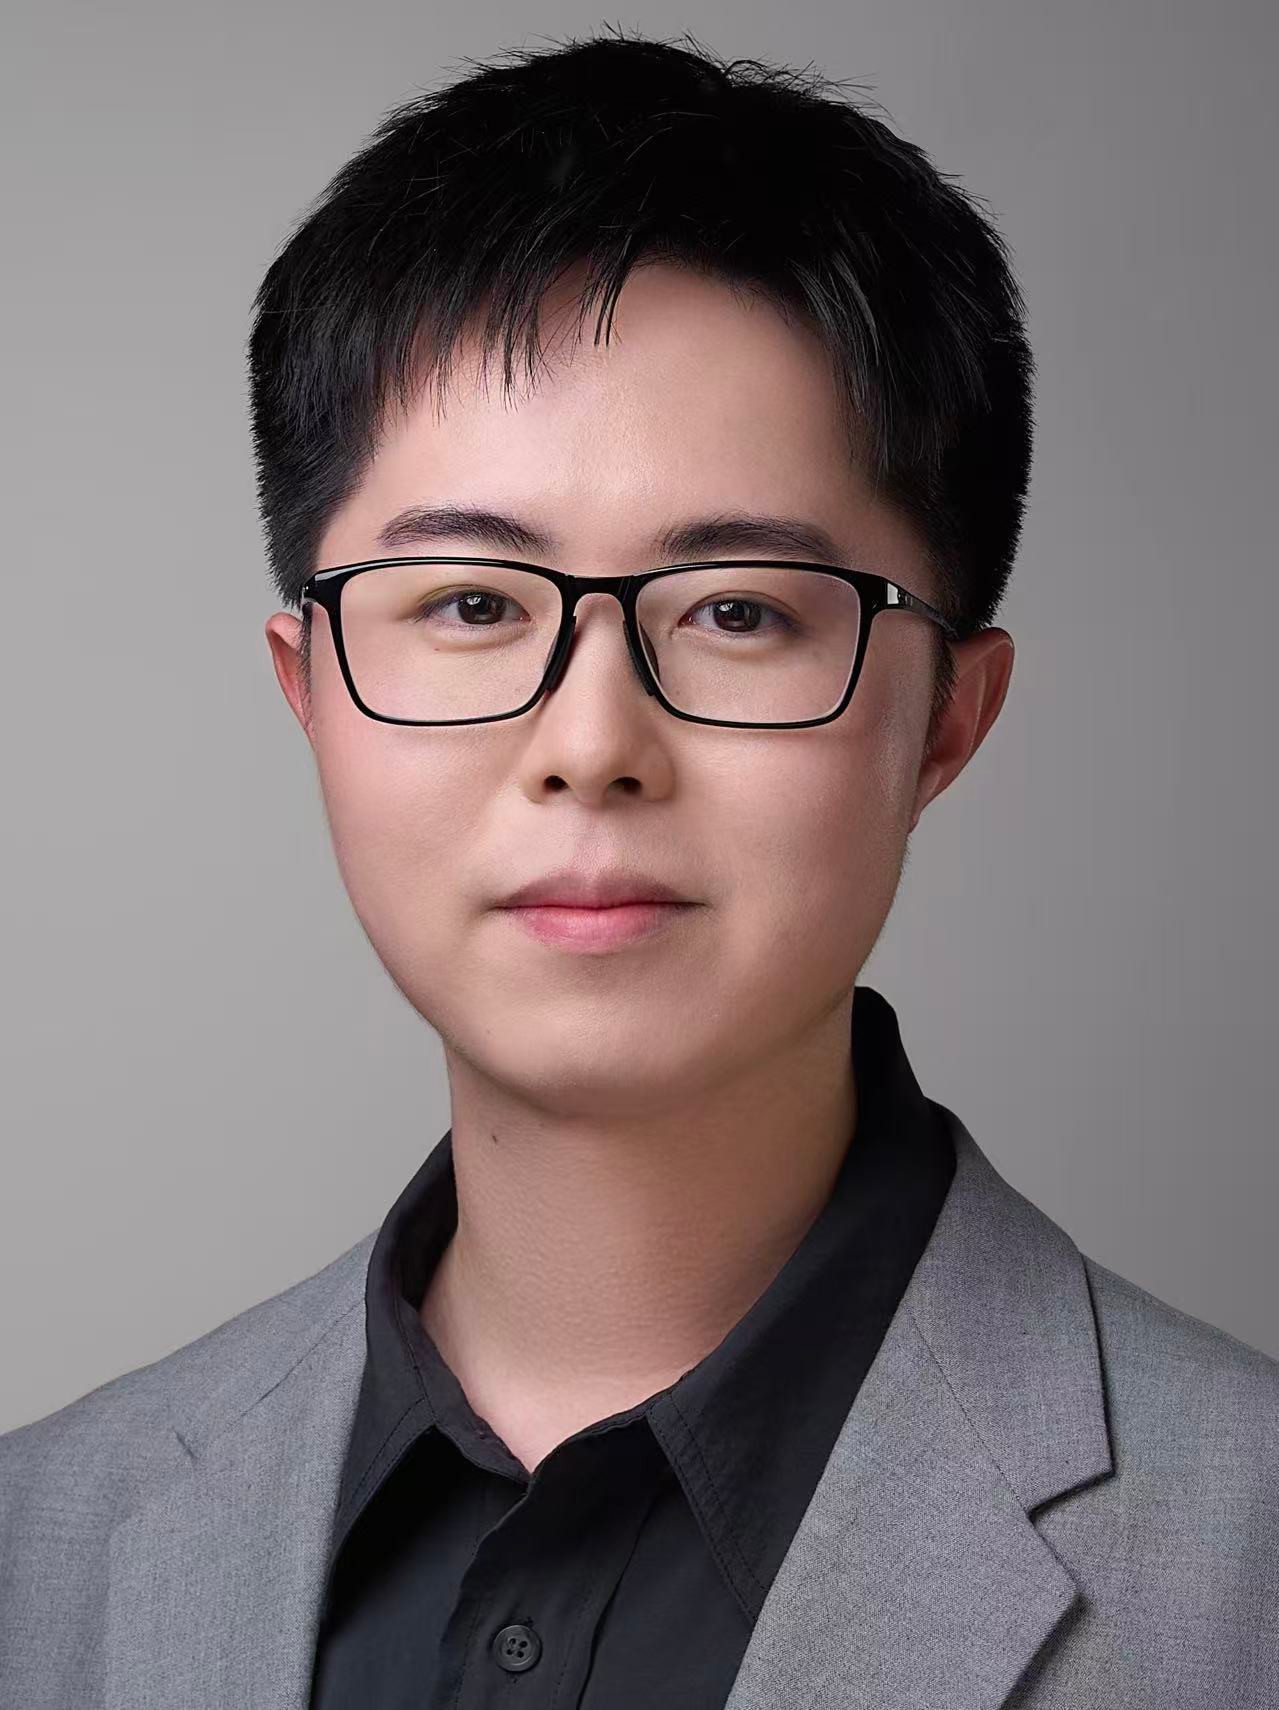
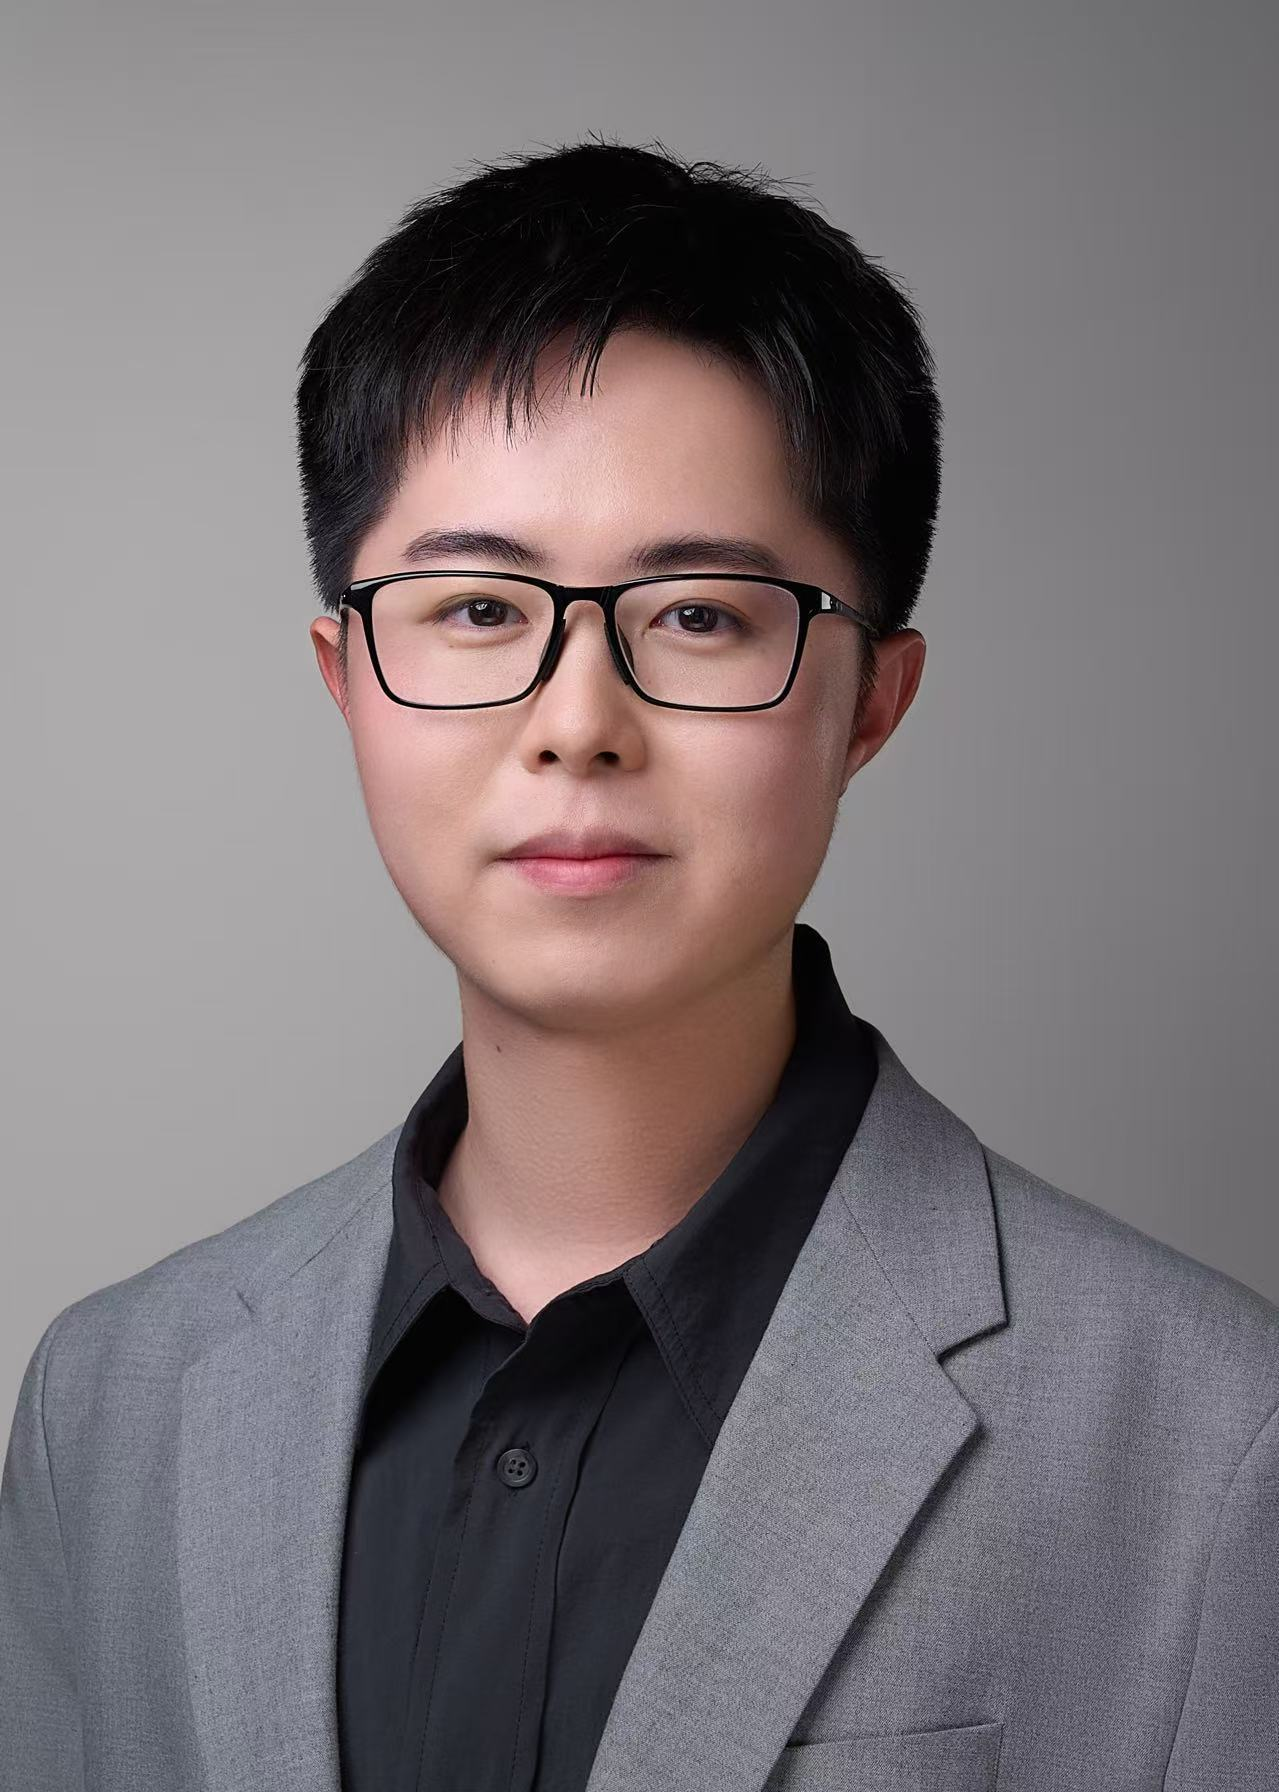
Replace profile photo with the new portrait

diff --git a/index.html b/index.html
@@ -10,7 +10,7 @@
 @media(prefers-reduced-motion:reduce){html{scroll-behavior:auto}}
 .pubgroup{margin:18px 0 24px}.pubgroup summary{font-size:1.15em;font-weight:700;cursor:pointer;margin-bottom:12px}.pubgroup .pub{padding:14px 0}.pubgroup .pub:last-child{border-bottom:0}/* Typography follows the reference's inherited 16/18px scale. */
 .pub h3{font-size:1rem;line-height:1.5}.pub .authors,.pub .venue,.pub .year,.pub .pubnote,.pub .paperlink{font-size:1rem;line-height:1.5}.pubgroup summary{font-size:1rem;line-height:1.5;font-weight:400}
-</style></head><body><a class="skip" href="#main"><span data-en="Skip to content" data-zh="跳至正文">Skip to content</span></a><header class="masthead"><div class="masthead-inner"><a class="brand" href="#about">Tianyi Chen</a><nav id="site-nav" aria-label="Main navigation" data-aria-en="Main navigation" data-aria-zh="主导航"><a href="#research"><span data-en="Research" data-zh="研究方向">Research</span></a><a href="#publications"><span data-en="Publication" data-zh="学术论文">Publication</span></a><a href="#experience"><span data-en="Experience" data-zh="研究经历">Experience</span></a><a href="#education"><span data-en="Education" data-zh="教育背景">Education</span></a></nav><div aria-label="Language / 语言" class="language-switch" role="group"><button aria-pressed="true" data-language="en" lang="en" type="button">English</button><button aria-pressed="false" data-language="zh" lang="zh-CN" type="button">中文</button></div><button class="menu-toggle" type="button" aria-expanded="false" aria-controls="site-nav" aria-label="Menu" data-aria-en="Menu" data-aria-zh="菜单">☰</button></div></header><div class="page-layout"><aside aria-label="Profile" class="profile" data-aria-en="Profile" data-aria-zh="个人简介"><img alt="Tianyi Chen" class="profile-photo" decoding="async" fetchpriority="high" height="175" src="assets/tianyi-chen.jpg" width="175"/><h2 class="profile-name">Tianyi Chen</h2><p class="profile-role"><span data-en="Computer Science Undergraduate" data-zh="计算机科学本科生">Computer Science Undergraduate</span></p><p><span data-en="Universiti Malaya" data-zh="马来亚大学">Universiti Malaya</span></p><p class="profile-location"><span data-en="Malaysia" data-zh="马来西亚">Malaysia</span></p><ul class="profile-links"><li><a href="mailto:22087183@siswa.um.edu.my"><svg viewBox="0 0 24 24" aria-hidden="true"><path d="M2 4h20v3L12 14 2 7zm0 5 10 7 10-7v11H2z"/></svg><span data-en="Email" data-zh="邮箱">Email</span></a></li><li><a href="https://github.com/Austin-ty" target="_blank" rel="noopener noreferrer"><svg viewBox="0 0 24 24" aria-hidden="true"><path d="M12 .9a11.1 11.1 0 0 0-3.5 21.6v-2.2c-2.8.6-3.4-1.2-3.4-1.2-.5-1.2-1.2-1.6-1.2-1.6-1-.6.1-.6.1-.6 1.1.1 1.7 1.1 1.7 1.1 1 1.7 2.6 1.2 3.2.9.1-.7.4-1.2.7-1.5-2.3-.3-4.7-1.1-4.7-5a4 4 0 0 1 1.1-2.8c-.1-.3-.5-1.3.1-2.8 0 0 .9-.3 3 1.1a10.5 10.5 0 0 1 5.6 0c2.1-1.4 3-1.1 3-1.1.6 1.5.2 2.5.1 2.8a4 4 0 0 1 1.1 2.8c0 3.9-2.4 4.7-4.7 5 .4.3.7.9.7 1.8v3.3A11.1 11.1 0 0 0 12 .9z"/></svg>GitHub</a></li></ul></aside><main class="page-content" id="main"><section aria-labelledby="name" class="about" id="about"><div><h1 id="name">Tianyi Chen（陈添颐）</h1><p class="intro"><span data-en="I am a computer science undergraduate at Universiti Malaya, interested in efficient visual perception, video enhancement, and generative models. My research experience spans medical image analysis and vision algorithms for railway inspection." data-zh="我目前就读于马来亚大学计算机科学本科，关注高效视觉感知、视频增强与生成模型。我的研究经历涵盖医学图像分析和轨道交通巡检视觉算法。">I am a computer science undergraduate at Universiti Malaya, interested in efficient visual perception, video enhancement, and generative models. My research experience spans medical image analysis and vision algorithms for railway inspection.</span></p></div></section>
+</style></head><body><a class="skip" href="#main"><span data-en="Skip to content" data-zh="跳至正文">Skip to content</span></a><header class="masthead"><div class="masthead-inner"><a class="brand" href="#about">Tianyi Chen</a><nav id="site-nav" aria-label="Main navigation" data-aria-en="Main navigation" data-aria-zh="主导航"><a href="#research"><span data-en="Research" data-zh="研究方向">Research</span></a><a href="#publications"><span data-en="Publication" data-zh="学术论文">Publication</span></a><a href="#experience"><span data-en="Experience" data-zh="研究经历">Experience</span></a><a href="#education"><span data-en="Education" data-zh="教育背景">Education</span></a></nav><div aria-label="Language / 语言" class="language-switch" role="group"><button aria-pressed="true" data-language="en" lang="en" type="button">English</button><button aria-pressed="false" data-language="zh" lang="zh-CN" type="button">中文</button></div><button class="menu-toggle" type="button" aria-expanded="false" aria-controls="site-nav" aria-label="Menu" data-aria-en="Menu" data-aria-zh="菜单">☰</button></div></header><div class="page-layout"><aside aria-label="Profile" class="profile" data-aria-en="Profile" data-aria-zh="个人简介"><img alt="Tianyi Chen" class="profile-photo" decoding="async" fetchpriority="high" height="175" src="assets/tianyi-chen.jpg?v=20261104-new" width="175"/><h2 class="profile-name">Tianyi Chen</h2><p class="profile-role"><span data-en="Computer Science Undergraduate" data-zh="计算机科学本科生">Computer Science Undergraduate</span></p><p><span data-en="Universiti Malaya" data-zh="马来亚大学">Universiti Malaya</span></p><p class="profile-location"><span data-en="Malaysia" data-zh="马来西亚">Malaysia</span></p><ul class="profile-links"><li><a href="mailto:22087183@siswa.um.edu.my"><svg viewBox="0 0 24 24" aria-hidden="true"><path d="M2 4h20v3L12 14 2 7zm0 5 10 7 10-7v11H2z"/></svg><span data-en="Email" data-zh="邮箱">Email</span></a></li><li><a href="https://github.com/Austin-ty" target="_blank" rel="noopener noreferrer"><svg viewBox="0 0 24 24" aria-hidden="true"><path d="M12 .9a11.1 11.1 0 0 0-3.5 21.6v-2.2c-2.8.6-3.4-1.2-3.4-1.2-.5-1.2-1.2-1.6-1.2-1.6-1-.6.1-.6.1-.6 1.1.1 1.7 1.1 1.7 1.1 1 1.7 2.6 1.2 3.2.9.1-.7.4-1.2.7-1.5-2.3-.3-4.7-1.1-4.7-5a4 4 0 0 1 1.1-2.8c-.1-.3-.5-1.3.1-2.8 0 0 .9-.3 3 1.1a10.5 10.5 0 0 1 5.6 0c2.1-1.4 3-1.1 3-1.1.6 1.5.2 2.5.1 2.8a4 4 0 0 1 1.1 2.8c0 3.9-2.4 4.7-4.7 5 .4.3.7.9.7 1.8v3.3A11.1 11.1 0 0 0 12 .9z"/></svg>GitHub</a></li></ul></aside><main class="page-content" id="main"><section aria-labelledby="name" class="about" id="about"><div><h1 id="name">Tianyi Chen（陈添颐）</h1><p class="intro"><span data-en="I am a computer science undergraduate at Universiti Malaya, interested in efficient visual perception, video enhancement, and generative models. My research experience spans medical image analysis and vision algorithms for railway inspection." data-zh="我目前就读于马来亚大学计算机科学本科，关注高效视觉感知、视频增强与生成模型。我的研究经历涵盖医学图像分析和轨道交通巡检视觉算法。">I am a computer science undergraduate at Universiti Malaya, interested in efficient visual perception, video enhancement, and generative models. My research experience spans medical image analysis and vision algorithms for railway inspection.</span></p></div></section>
 <section class="section" id="research"><h2><span data-en="Research Interests" data-zh="研究方向">Research interests</span></h2><div class="sectionbody"><p><span data-en="My interests lie in making visual models more efficient and useful in real-world settings, with a focus on the following areas." data-zh="我希望提升视觉模型的效率及其在真实场景中的实用性，主要关注以下方向。">My interests lie in making visual models more efficient and useful in real-world settings, with a focus on the following areas.</span></p><div class="keywords"><strong data-en="Keywords: " data-zh="关键词：">Keywords: </strong><ul class="interestlist"><li><span data-en="Efficient visual perception" data-zh="高效视觉感知">Efficient visual perception</span></li><li><span data-en="Video super-resolution" data-zh="视频超分辨率">Video super-resolution</span></li><li><span data-en="Diffusion model acceleration" data-zh="扩散模型加速">Diffusion model acceleration</span></li><li><span data-en="Knowledge distillation" data-zh="知识蒸馏">Knowledge distillation</span></li></ul></div></div></section><section class="section" id="news"><h2><span data-en="News" data-zh="最新动态">News</span></h2><ul class="news-list"><li><span data-en="3 November 2026 — Our work on object-aware heatmap refinement for railway train foreign object inspection was accepted by Information." data-zh="2026年11月3日 — 铁路列车异物检测中的目标感知热图细化研究获 Information 录用。">3 November 2026 — Our work on object-aware heatmap refinement for railway train foreign object inspection was accepted by Information.</span></li><li><span data-en="25 October 2026 — Our work on one-shot synthesis of rare gastrointestinal lesions was published online in Nature Communications (Article in Press)." data-zh="2026年10月25日 — 罕见胃肠道病变单样本合成研究在 Nature Communications 在线发表（Article in Press）。">25 October 2026 — Our work on one-shot synthesis of rare gastrointestinal lesions was published online in Nature Communications (Article in Press).</span></li></ul></section>
 <section class="section" id="publications"><h2><span data-en="Publication" data-zh="学术论文">Publication</span></h2><p><span data-en="Selected publications in medical image analysis and railway visual inspection." data-zh="医学图像分析与轨道交通视觉巡检方向的代表性论文。">Selected publications in medical image analysis and railway visual inspection.</span></p><h2><span data-en="Selected Work" data-zh="代表性成果">Selected Work</span></h2><div class="sectionbody"><details class="pubgroup" open><summary><span data-en="Endoscopy" data-zh="内窥镜图像分析">Endoscopy</span></summary><article class="pub"><div class="pubhead"><span class="venue">Nature Communications</span><span class="year">2026</span></div><h3 lang="en">One-shot synthesis of rare gastrointestinal lesions improves diagnostic accuracy and clinical training</h3><p class="authors">J. Yu, Y. Zhu, P. Fu, <strong>T. Chen</strong>, et al.</p><p class="pubnote"><span data-en="Published online 25 October 2026 · Article in Press · Fourth author" data-zh="2026年10月25日在线发表 · Article in Press · 第四作者">Published online 25 October 2026 · Article in Press · Fourth author</span></p><a class="paperlink" href="https://doi.org/10.1038/s41467-026-78492-y" rel="noopener noreferrer" target="_blank"><span data-en="Paper " data-zh="论文 ">Paper </span><span aria-hidden="true">↗</span></a></article><article class="pub"><div class="pubhead"><span class="venue">IEEE Transactions on Medical Imaging</span><span class="year">2025</span></div><h3 lang="en">Robust Polyp Detection and Diagnosis Through Compositional Prompt-Guided Diffusion Models</h3><p class="authors">J. Yu, Y. Zhu, P. Fu, <strong>T. Chen</strong>, et al.</p><p class="pubnote"><span data-en="44(12), 5245–5257 · Fourth author" data-zh="44(12)，5245–5257 · 第四作者">44(12), 5245–5257 · Fourth author</span></p><a class="paperlink" href="https://doi.org/10.1109/TMI.2025.3589456" rel="noopener noreferrer" target="_blank"><span data-en="Paper " data-zh="论文 ">Paper </span><span aria-hidden="true">↗</span></a></article><article class="pub"><div class="pubhead"><span class="venue">MICCAI</span><span class="year">2025</span></div><h3 lang="en">Endo-CLIP: Progressive Self-Supervised Pre-training on Raw Colonoscopy Records</h3><p class="authors">Y. He, Y. Zhu, P. Fu, R. Yang, <strong>T. Chen</strong>, et al.</p><p class="pubnote"><span data-en="LNCS 15970, 106–116 · Fifth author" data-zh="LNCS 15970，106–116 · 第五作者">LNCS 15970, 106–116 · Fifth author</span></p><a class="paperlink" href="https://papers.miccai.org/miccai-2025/0287-Paper4385.html" rel="noopener noreferrer" target="_blank"><span data-en="Paper " data-zh="论文 ">Paper </span><span aria-hidden="true">↗</span></a></article></details><details class="pubgroup" open><summary><span data-en="Railway Inspection" data-zh="轨道交通巡检">Railway Inspection</span></summary><article class="pub"><div class="pubhead"><span class="venue">Information</span><span class="year">2026</span></div><h3 lang="en">Object-aware heatmap refinement for railway train foreign object inspection using compact PatchBank anomaly scoring</h3><p class="authors">X. Sun, R. Yang, H. Shi, <strong>T. Chen</strong>, Y. Li, J. Qiu, and K. Wang</p><p class="pubnote"><span data-en="Accepted 3 November 2026 · Not yet published · Fourth author" data-zh="2026年11月3日录用 · 尚未发表 · 第四作者">Accepted 3 November 2026 · Not yet published · Fourth author</span></p></article></details></div></section>
 <section class="section" id="experience"><h2><span data-en="Experience" data-zh="研究经历">Experience</span></h2><div class="sectionbody"><article class="experience"><h3><span data-en="Medical Image Analysis" data-zh="医学图像分析">Medical Image Analysis</span></h3><p class="meta"><span data-en="Digital Medical Research Center, Fudan University · July 2024–present" data-zh="复旦大学数字医学研究中心 · 2024年7月至今">Digital Medical Research Center, Fudan University · July 2024–present</span></p><p><span data-en="Contributed to diffusion-based image synthesis, segmentation, and image-text pre-training for endoscopic image analysis. Work includes synthesis pipelines, experiments, model evaluation, and manuscript revision." data-zh="参与面向内窥镜图像分析的扩散模型图像合成、图像分割与图文预训练研究，工作包括合成流程搭建、实验、模型评估及论文修改。">Contributed to diffusion-based image synthesis, segmentation, and image-text pre-training for endoscopic image analysis. Work includes synthesis pipelines, experiments, model evaluation, and manuscript revision.</span></p></article><article class="experience"><h3><span data-en="Railway Visual Inspection" data-zh="轨道交通视觉巡检">Railway Visual Inspection</span></h3><p class="meta"><span data-en="CRRC Qingdao Sifang Co., Ltd. · September 2024–present" data-zh="中车青岛四方机车车辆股份有限公司 · 2024年9月至今">CRRC Qingdao Sifang Co., Ltd. · September 2024–present</span></p><p><span data-en="Develop computer vision algorithms for railway component and anomaly detection. Experience includes high-resolution inspection, multi-stage detection, and vision algorithms for UAV and quadruped-robot platforms." data-zh="开发用于轨道交通部件与异常检测的计算机视觉算法，涉及高分辨率巡检、多阶段检测，以及无人机和四足机器人平台的视觉算法。">Develop computer vision algorithms for railway component and anomaly detection. Experience includes high-resolution inspection, multi-stage detection, and vision algorithms for UAV and quadruped-robot platforms.</span></p><p class="meta"><span data-en="Primarily remote collaboration; full-time internship August 2025–February 2026." data-zh="以远程合作为主；2025年8月至2026年2月为全职实习。">Primarily remote collaboration; full-time internship August 2025–February 2026.</span></p></article></div></section>
